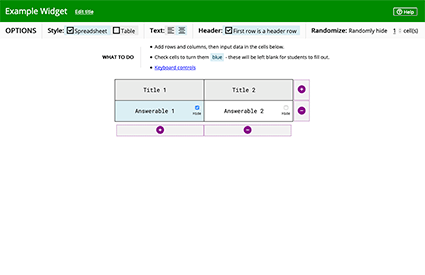
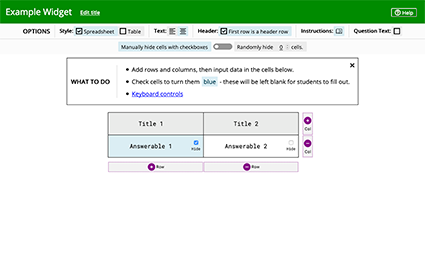
Update helper docs to reflect changes to creator

Changed region(s): [[0.0, 0.0, 1.0, 0.64]]

diff --git a/src/_guides/creator.md b/src/_guides/creator.md
@@ -22,7 +22,7 @@ First, give your widget a name (this can be changed later). Then select the opti
 2. Center or left align text
 3. Make the first row a header
 
-Then add in rows and columns to the spreadsheet and fill in the cells with the information. You can check a cell to hide it from the student. If you want to make the cells randomly hidden instead, enter the number of cells you want hidden in the options bar. You can still check the cells you want hidden, but the player will disregard it.
+Then add in rows and columns to the spreadsheet and fill in the cells with the information. You can check a cell to hide it from the student. If you want to make the cells randomly hidden instead, enter the number of cells you want hidden in the options bar.
 
 ### Playing
 
